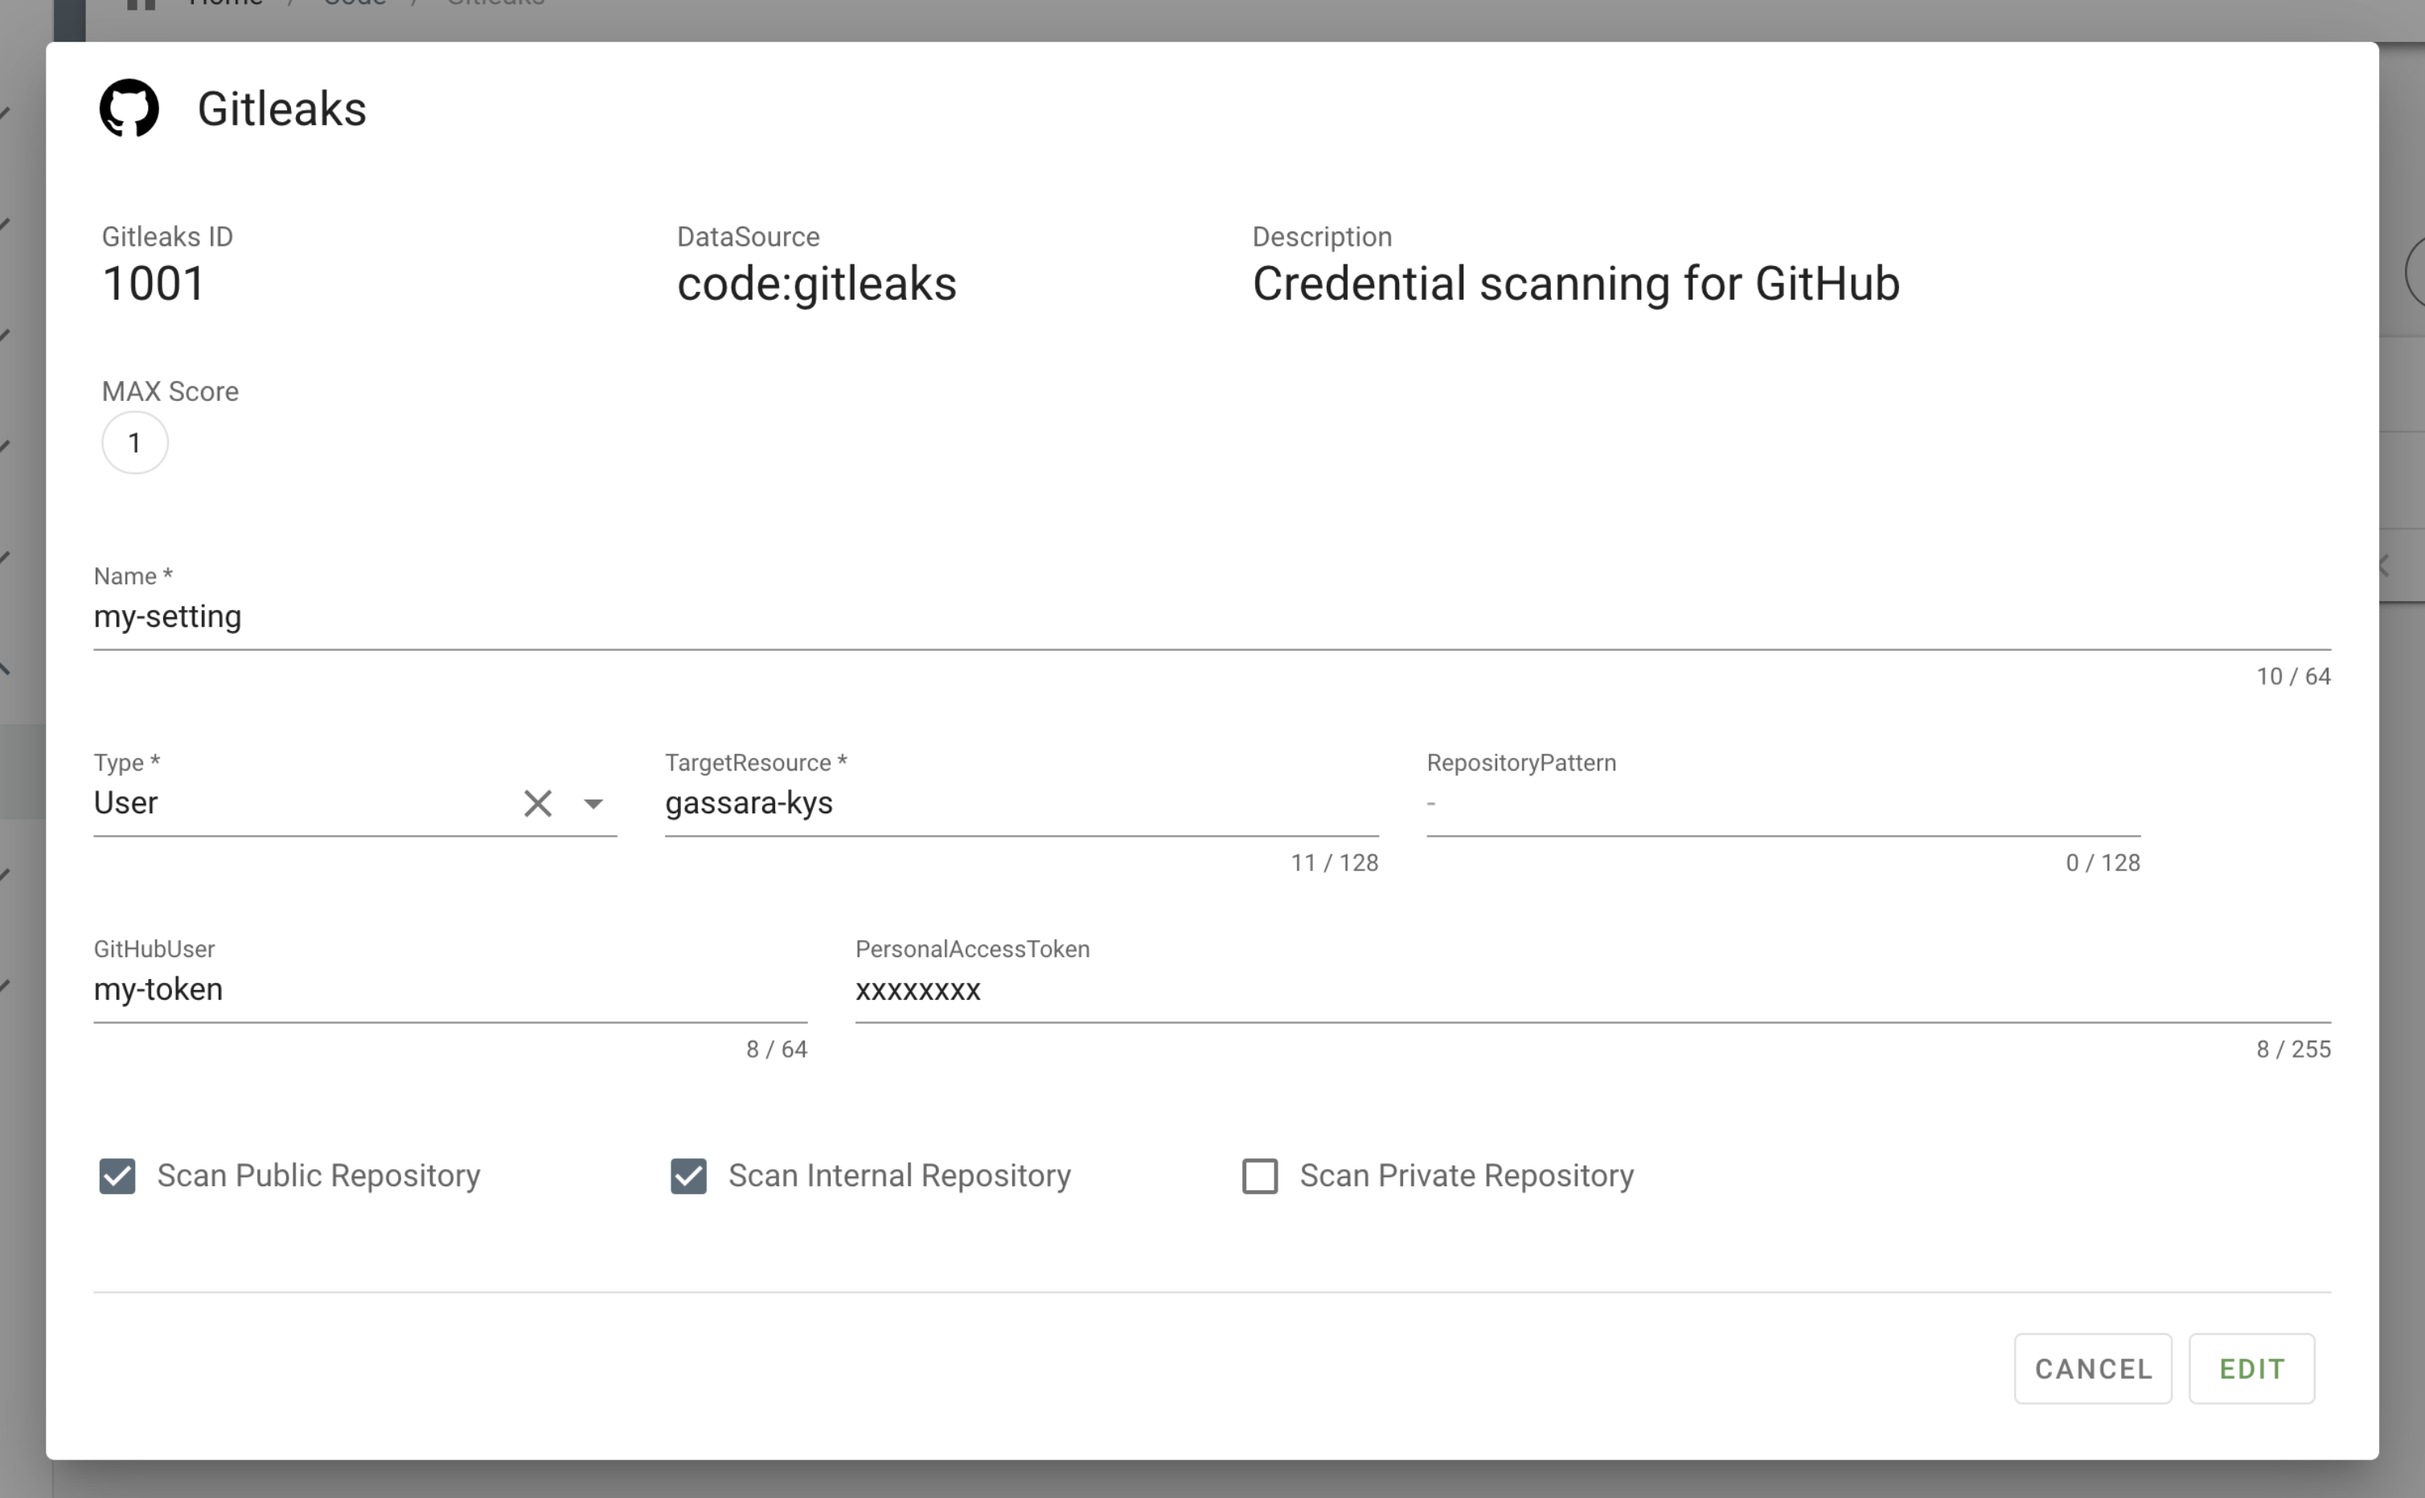
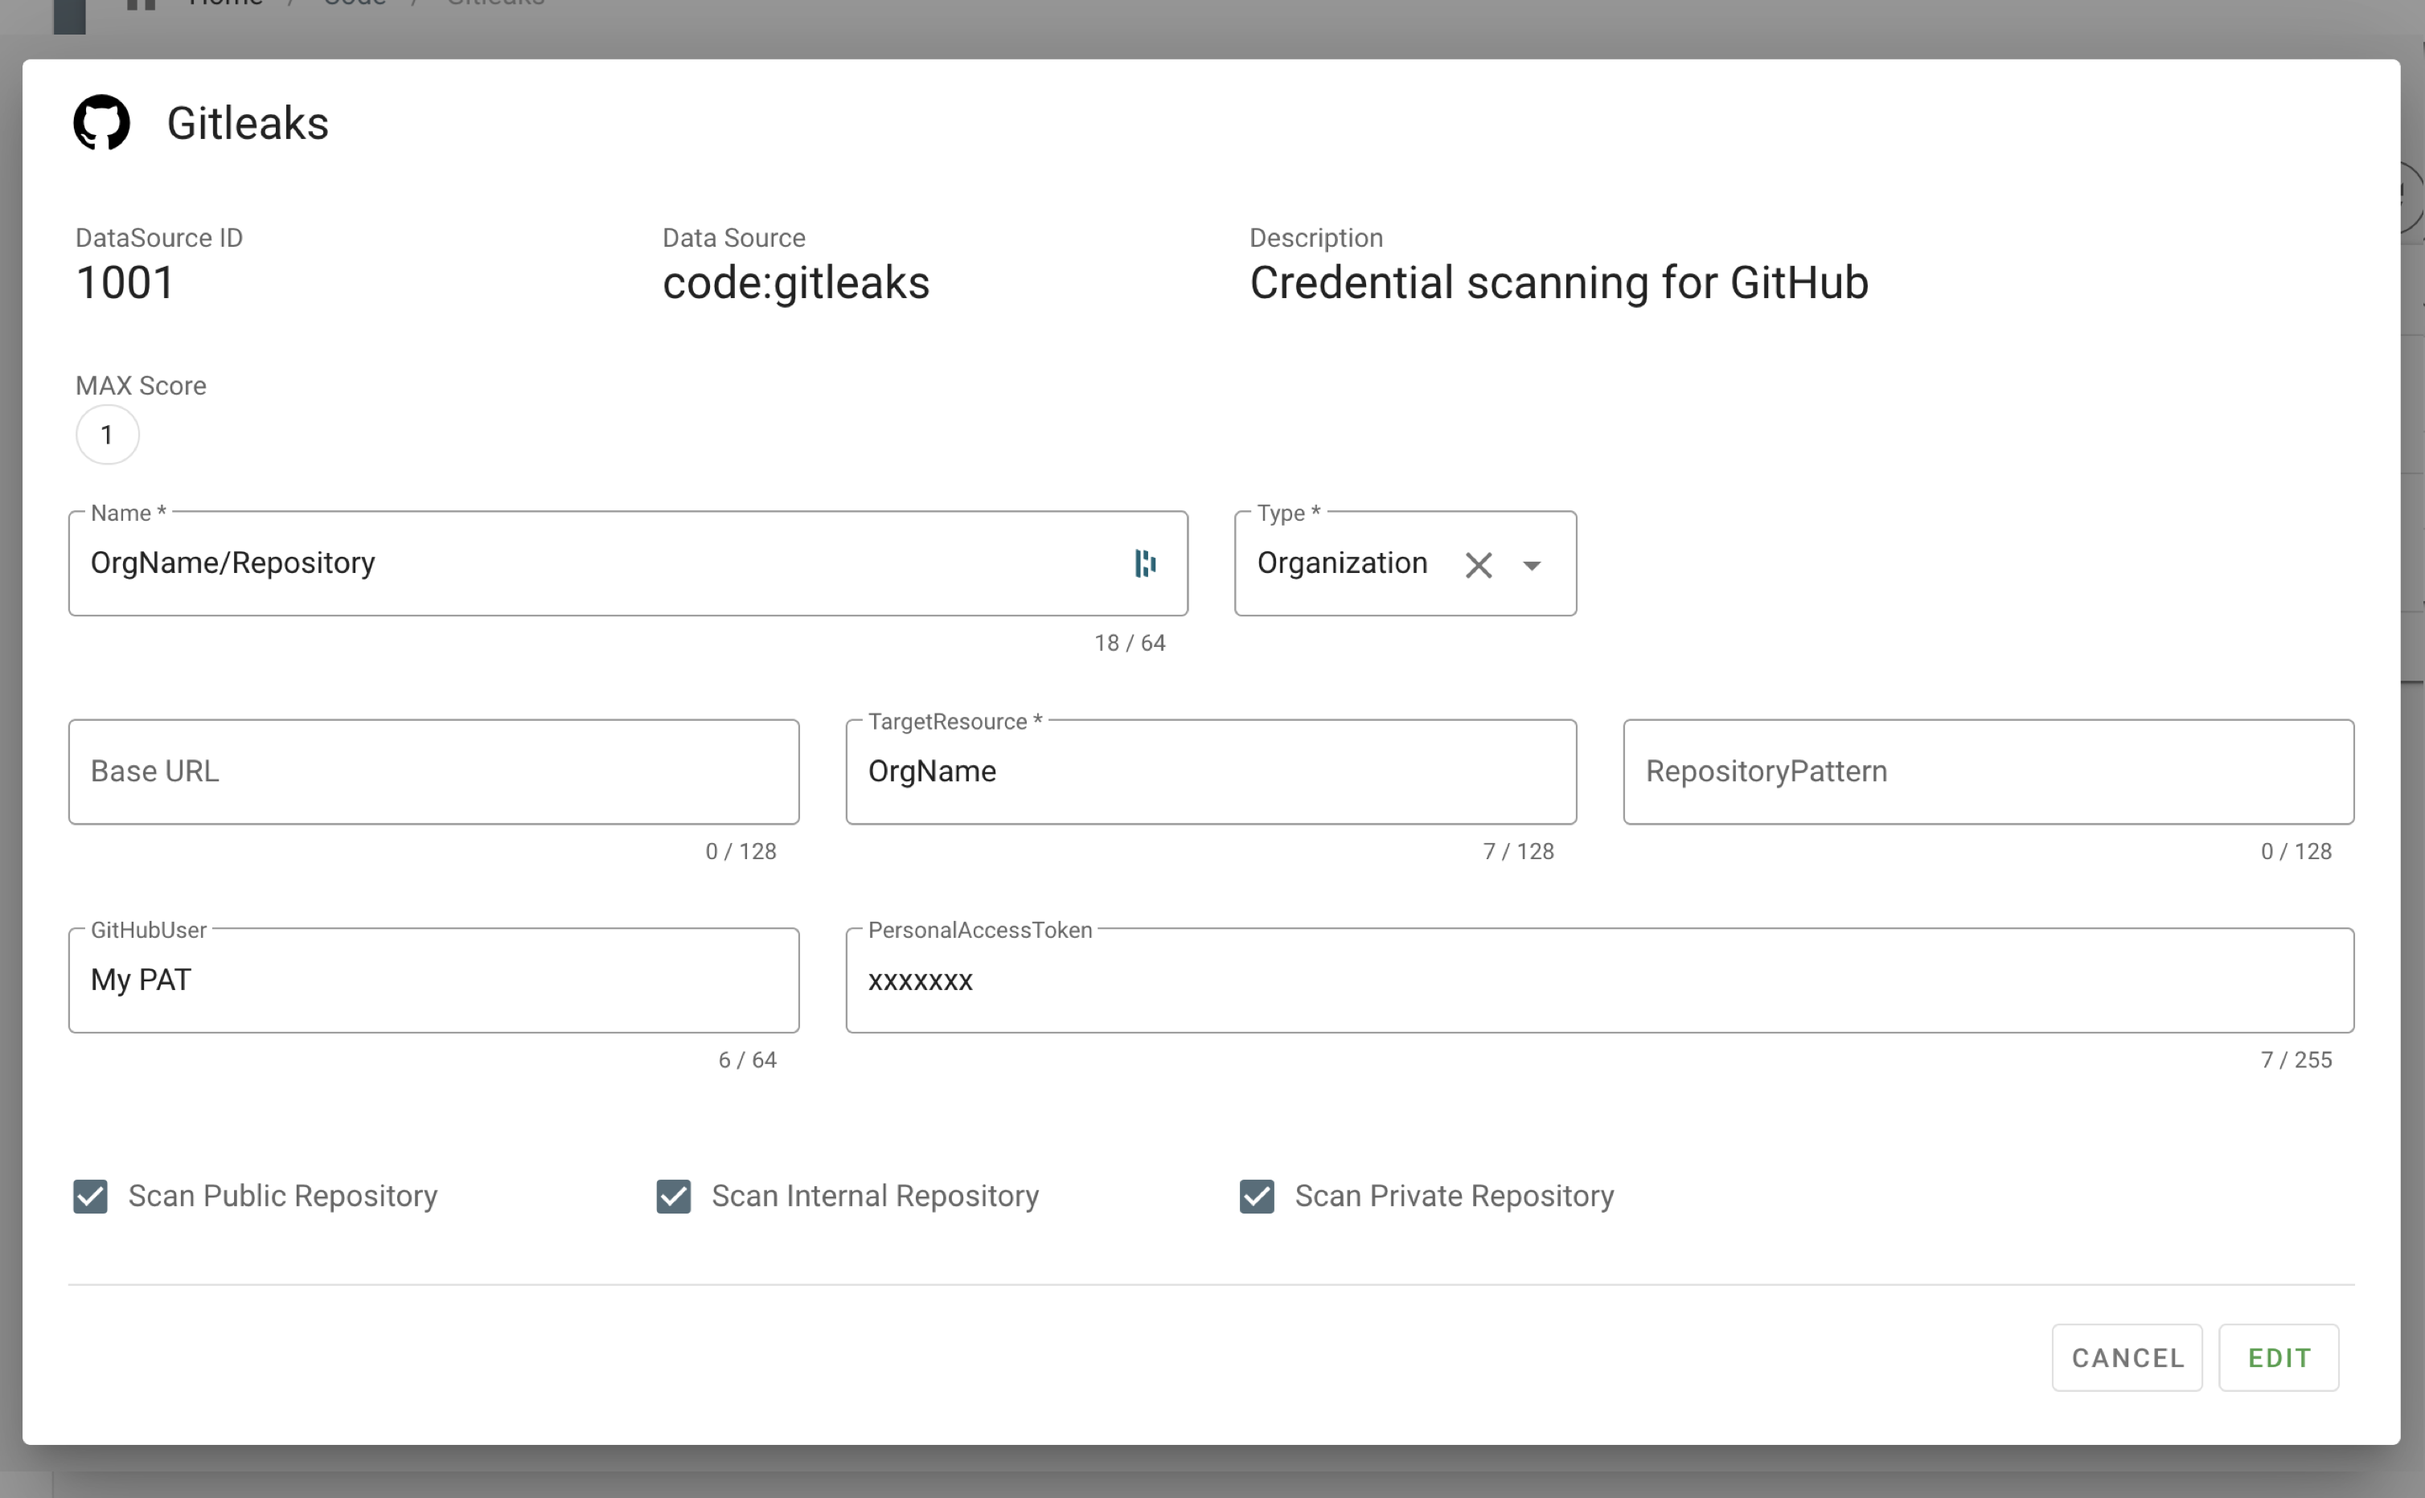
support GHES

diff --git a/docs/code/gitleaks_datasource.md b/docs/code/gitleaks_datasource.md
@@ -5,12 +5,15 @@ Gitleaksのデータソース設定について説明します
 ???+ warning "他者の環境に対してのスキャンはNGです"
     発見した場合、強制的にデータ削除する可能性があります
 
+## GitHubリポジトリをスキャンする
+
 1. メニューより`Code > Gitleaks`をクリックします
 2. 画面右側の`NEW`をクリックします
 3. 以下の項目を入力し`EDIT`をクリックしてください
-    - **Name ＊**: Gitleaks設定名
-    - **Type ＊**: GitHubの種類 `Organization`または`User`を指定します
-    - **TargetResouce ＊**: GitHubのOrganization名またはUser名を入力します
+    - **Name＊**: Gitleaks設定名
+    - **Type＊**: GitHubの種類 `Organization`または`User`を指定します
+    - **Base URL＊**: GHESを利用する場合は設定する必要があります。詳細は[下記](#github-enterprise-server)を参照してください
+    - **TargetResouce＊**: GitHubのOrganization名またはUser名を入力します
     - **RepositoryPattern**: 上記のTargetResource配下でスキャンしたいリポジトリ名を指定します。（部分一致）
         - 空欄の場合は、TargetResource配下のリポジトリすべてが対象になります。
     - **GitHubUser**: スキャンする際の認証情報（ユーザ名）を登録します
@@ -36,4 +39,13 @@ Gitleaksのデータソース設定について説明します
             - ＊[Forkリポジトリ :octicons-link-external-24:](https://docs.github.com/en/github/getting-started-with-github/fork-a-repo){ target="_blank" } とは一般的にはオリジナルリポジトリへの貢献（修正の提案）のために作成されるリポジトリです
     - リポジトリのサイズが350MB以上のもの
     - RISKEN環境からcloneできないもの
+
+## GitHub Enterprise Serverをスキャンする
+
+オプションでGitHub Enterprise Server（GHES）をサポートしています
+
+ただし、GHES上のリポジトリをスキャンする場合は以下のステップが必要です
+
+1. 利用中のGEHS環境にて、GitHub v3 APIアクセスに対してIP制限をしている場合はRISKEN環境のIPを許可する必要があります（IPアドレスはRISKEN管理者にお問い合わせください）
+2. GitHubのスキャン設定で `Base URL` を設定してください（e.g. http(s)://hostname/api/v3/）
 
